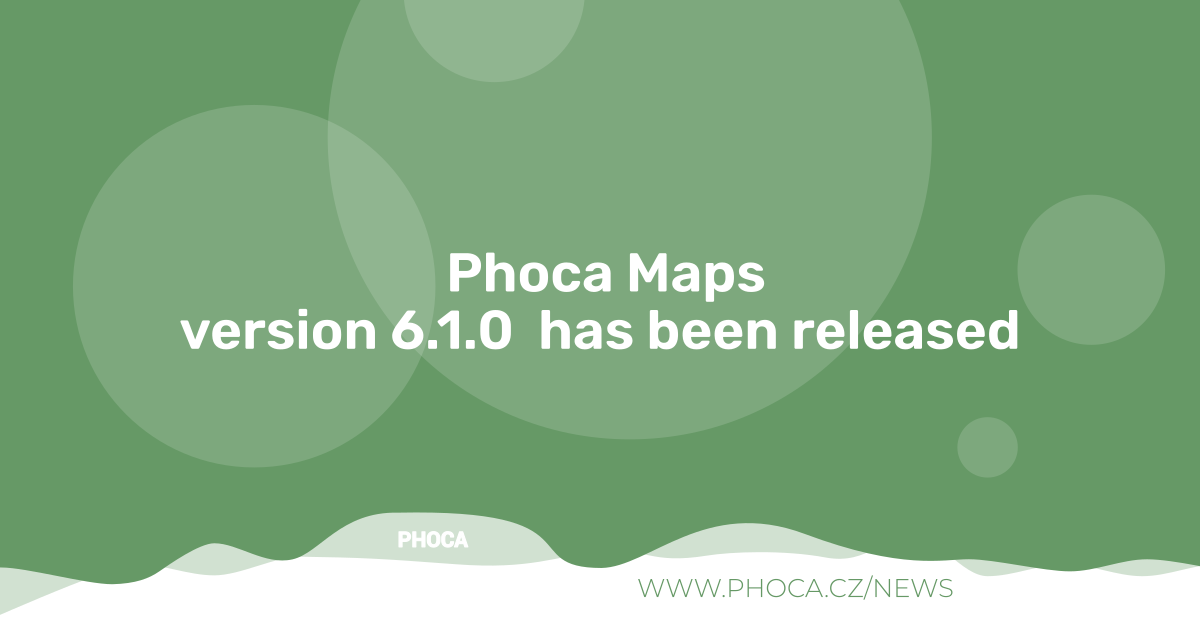
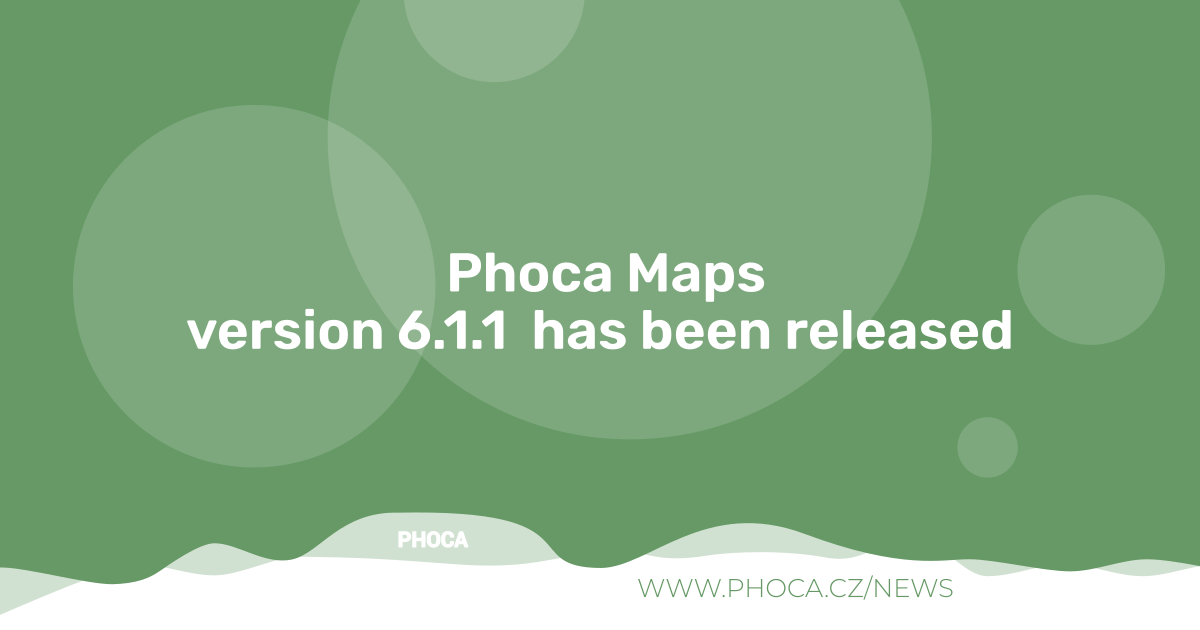
6.1.1

Changed region(s): [[0.1542, 0.4825, 0.8633, 0.573]]

diff --git a/admin/helpers/phocamapsmaposm.php b/admin/helpers/phocamapsmaposm.php
@@ -34,6 +34,7 @@ class PhocaMapsMapOsm
 	public $zoomcontrol				= '';
 	public $easyprint				= '';
 	public $markerclustering		= 0;
+	public $referrerpolicy 			= '';
 
 	/*var $_map			= 'mapPhocaMap';
 	var $_latlng		= 'phocaLatLng';
@@ -66,9 +67,7 @@ class PhocaMapsMapOsm
 		$this->easyprint			= $paramsC->get( 'osm_easyprint', 0 );
 
 		$this->markerclustering		= $paramsC->get( 'marker_clustering', 0 );
-
-
-
+		$this->referrerpolicy		= $paramsC->get( 'osm_referrer_policy', '' );
 		$this->id	= $id;
 
 
@@ -174,15 +173,23 @@ class PhocaMapsMapOsm
 		$app = Factory::getApplication();
 
 		// Possible new parameters
+
+		$referrerOption = '';
+		if (!empty($this->referrerpolicy)) {
+			$referrerOption = '    referrerPolicy: \''.$this->referrerpolicy.'\',';
+		}
+
 		$thunderForestMapType = $this->thunderforestmaptype;
 		$thunderForestKey	= $this->maprouterapikey;
 		$mapBoxKey	= $this->maprouterapikey;
 		$type = $this->osmmaptype;
 
 		$o = array();
+
 		if ($type === "osm_de") {
 
 			$o[] = 'L.tileLayer(\'https://{s}.tile.openstreetmap.de/tiles/osmde/{z}/{x}/{y}.png\', {';
+			$o[] = $referrerOption;
 			$o[] = '	maxZoom: 18,';
 			$o[] = '	attribution: \'&copy; <a href="https://www.openstreetmap.org/copyright" target="_blank">OpenStreetMap</a>\'';
 			$o[] = '}).addTo(map'.$this->name.$this->id.');';
@@ -192,6 +199,7 @@ class PhocaMapsMapOsm
 			//$o[] = 'L.tileLayer(\'http://{s}.tiles.wmflabs.org/bw-mapnik/{z}/{x}/{y}.png\', {';
 			$o[] = 'L.tileLayer(\'https://tiles.wmflabs.org/bw-mapnik/{z}/{x}/{y}.png\', {';
 
+			$o[] = $referrerOption;
 			$o[] = '	maxZoom: 18,';
 			$o[] = '	attribution: \'&copy; <a href="https://www.openstreetmap.org/copyright" target="_blank">OpenStreetMap</a>\'';
 			$o[] = '}).addTo(map'.$this->name.$this->id.');';
@@ -207,6 +215,7 @@ class PhocaMapsMapOsm
 				return false;
 			}
 			$o[] = 'L.tileLayer(\'https://{s}.tile.thunderforest.com/'.PhocaMapsHelper::filterValue($thunderForestMapType).'/{z}/{x}/{y}.png?apikey={apikey}\', {';
+			$o[] = $referrerOption;
 			$o[] = '	maxZoom: 22,';
 			$o[] = '	apikey: \''.PhocaMapsHelper::filterValue($thunderForestKey).'\',';
 			$o[] = '	attribution: \'&copy; <a href="https://www.thunderforest.com/" target="_blank">Thunderforest</a>, &copy; <a href="https://www.openstreetmap.org/copyright" target="_blank">OpenStreetMap</a>\'';
@@ -221,6 +230,7 @@ class PhocaMapsMapOsm
 
 
 			$o[] = 'L.tileLayer(\'https://api.tiles.mapbox.com/v4/{id}/{z}/{x}/{y}.png?access_token='.PhocaMapsHelper::filterValue($mapBoxKey).'\', {';
+			$o[] = $referrerOption;
 			$o[] = '	maxZoom: 18,';
 			$o[] = '	attribution: \'Map data &copy; <a href="https://openstreetmap.org" target="_blank">OpenStreetMap</a> contributors, \' + ';
 			$o[] = '		\'<a href="https://creativecommons.org/licenses/by-sa/2.0/" target="_blank" target="_blank">CC-BY-SA</a>, \' + ';
@@ -231,6 +241,7 @@ class PhocaMapsMapOsm
 		} else if ($type === 'opentopomap') {
 
 			$o[] = 'L.tileLayer(\'https://{s}.tile.opentopomap.org/{z}/{x}/{y}.png\', {';
+			$o[] = $referrerOption;
 			$o[] = '	maxZoom: 17,';
 			$o[] = '	attribution: \'Map data: &copy; <a href="https://www.openstreetmap.org/copyright" target="_blank">OpenStreetMap</a>, <a href="https://viewfinderpanoramas.org" target="_blank">SRTM</a> | Map style: &copy; <a href="https://opentopomap.org" target="_blank">OpenTopoMap</a> (<a href="https://creativecommons.org/licenses/by-sa/3.0/" target="_blank">CC-BY-SA</a>)\'';
 			$o[] = '}).addTo(map'.$this->name.$this->id.');';
@@ -243,6 +254,7 @@ class PhocaMapsMapOsm
 			*/
 		} else if ($type === 'wikimedia') {
 			$o[] = 'L.tileLayer(\'https://maps.wikimedia.org/osm-intl/{z}/{x}/{y}.png\', {';
+			$o[] = $referrerOption;
 			$o[] = '	maxZoom: 18,';
 			$o[] = '	attribution: \'&copy; <a href="https://wikimediafoundation.org/wiki/Maps_Terms_of_Use" target="_blank">Wikimedia maps</a> | Map data © <a href="https://openstreetmap.org/copyright" target="_blank">OpenStreetMap contributors</a>\'';
 			$o[] = '}).addTo(map'.$this->name.$this->id.');';
@@ -250,6 +262,7 @@ class PhocaMapsMapOsm
 		} else if ($type == 'osm_fr') {
 
 			$o[] = 'L.tileLayer(\'https://{s}.tile.openstreetmap.fr/osmfr/{z}/{x}/{y}.png\', {';
+			$o[] = $referrerOption;
 			$o[] = '	maxZoom: 20,';
 			$o[] = '	attribution: \'&copy; <a href="https://www.openstreetmap.fr" target="_blank">Openstreetmap France</a> & <a href="https://www.openstreetmap.org/copyright" target="_blank">OpenStreetMap</a>\'';
 			$o[] = '}).addTo(map'.$this->name.$this->id.');';
@@ -257,6 +270,7 @@ class PhocaMapsMapOsm
 		} else if ($type == 'osm_hot') {
 
 			$o[] = 'L.tileLayer(\'https://{s}.tile.openstreetmap.fr/hot/{z}/{x}/{y}.png\', {';
+			$o[] = $referrerOption;
 			$o[] = '	maxZoom: 20,';
 			$o[] = '	attribution: \'&copy; <a href="https://hotosm.org/" target="_blank">Humanitarian OpenStreetMap Team</a> & <a href="https://www.openstreetmap.org/copyright" target="_blank">OpenStreetMap</a>\'';
 			$o[] = '}).addTo(map'.$this->name.$this->id.');';
@@ -265,6 +279,7 @@ class PhocaMapsMapOsm
 
 
 			$o[] = 'L.tileLayer(\'https://{s}.tile.openstreetmap.org/{z}/{x}/{y}.png\', {';
+			$o[] = $referrerOption;
 			$o[] = '	maxZoom: 18,';
 			$o[] = '	attribution: \'&copy; <a href="https://www.openstreetmap.org/copyright" target="_blank">OpenStreetMap</a>\'';
 			$o[] = '}).addTo(map'.$this->name.$this->id.');';

diff --git a/README.MD b/README.MD
@@ -72,7 +72,7 @@ If you need additional information beyond this GitHub repository, further docume
 ### Version (Joomla! 5.x - no longer supported)
 5.1.0
 ### Version (Joomla! 6.x)
-6.1.0
+6.1.1
 
 ### License
 
